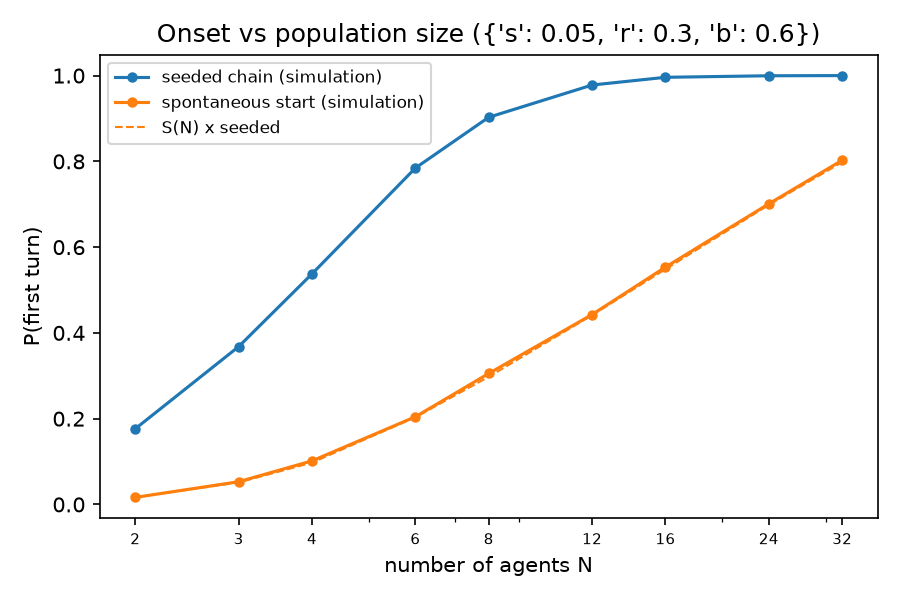
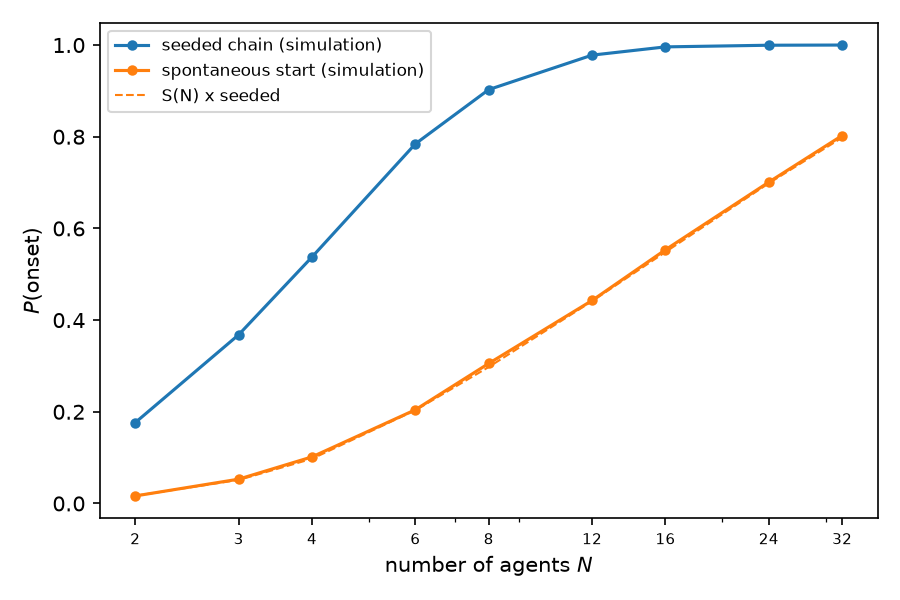
Clean up figure labels for the paper

diff --git a/scripts/validate_loop.py b/scripts/validate_loop.py
@@ -74,7 +74,7 @@ def main() -> None:
         ax.plot(sizes, scale[g], "o-", color=color, ms=4, label=("seeded chain" if g == 1 else "spontaneous start") + " (simulation)")
     product = [start_probability(n, ILLUSTRATIVE["s"], FAST["duration"], 2) * scale[1][i] for i, n in enumerate(sizes)]
     ax.plot(sizes, product, "--", color="C1", lw=1, label="S(N) x seeded")
-    ax.set(xscale="log", xlabel="number of agents N", ylabel="P(first turn)", title=f"Onset vs population size ({ILLUSTRATIVE})")
+    ax.set(xscale="log", xlabel="number of agents $N$", ylabel="$P$(onset)")
     ax.set_xticks(sizes, [str(n) for n in sizes], fontsize=7)
     ax.xaxis.set_minor_formatter(plt.NullFormatter())
     ax.legend(fontsize=8)
@@ -85,7 +85,7 @@ def main() -> None:
     fig, ax = plt.subplots(figsize=(6, 4))
     for g, color in ((1, "C0"), (2, "C1")):
         ax.plot(spans, duration[g], "o-", color=color, ms=4, label="seeded chain" if g == 1 else "spontaneous start")
-    ax.set(xscale="log", xlabel="rho * D", ylabel="P(first turn)", title="Onset vs duration (N = 8)")
+    ax.set(xscale="log", xlabel=r"duration $\rho D$", ylabel="$P$(onset)")
     ax.legend(fontsize=8)
     fig.tight_layout()
     fig.savefig(FIGURES / "loop_duration.png", dpi=150)

diff --git a/scripts/plot_results.py b/scripts/plot_results.py
@@ -59,8 +59,7 @@ def main() -> None:
     ax.set_xticks(range(len(ORDER)), ["offer,\nnot addressed", "offer,\naddressed by name", "reply to its\nown request"])
     ax.set_ylabel("share of runs that reacted")
     ax.set_ylim(0, 1.05)
-    ax.set_title("Blocked agents: share that reacted, by message (95% CI, n ≈ 30 per bar)")
-    ax.plot([], [], marker="o", mfc="none", mec="black", ls="none", label="any message (broad rule), where it differs")
+    ax.plot([], [], marker="o", mfc="none", mec="black", ls="none", label="secondary rule, where it differs")
     ax.legend(fontsize=7, ncol=3, loc="upper center", bbox_to_anchor=(0.5, -0.22), frameon=False)
     fig.tight_layout()
     FIGURE.parent.mkdir(parents=True, exist_ok=True)
